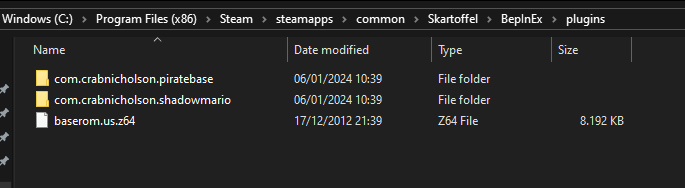
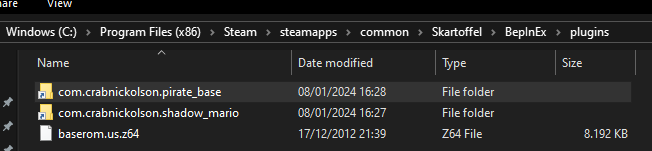
fix plugin guid

diff --git a/Plugin.cs b/Plugin.cs
@@ -18,7 +18,7 @@ public class Plugin : BasePlugin
     internal static ManualLogSource PluginLog { get; private set; }
     internal static MarioConfig PluginConfig { get; private set; }
 
-    private const string c_pluginGUID = "com.crabnicholson.shadowmario";
+    private const string c_pluginGUID = "com.crabnickolson.shadow_mario";
     private const string c_pluginName = "ShadowMario";
 
     public override void Load()

diff --git a/README.md b/README.md
@@ -1,6 +1,6 @@
 # Shadow Mario
 
-A plugin for Shadow Gambit that lets you play as Mario.
+A [BepInEx](https://github.com/BepInEx/BepInEx) plugin for [Shadow Gambit](https://store.steampowered.com/app/1545560/Shadow_Gambit_The_Cursed_Crew/) that lets you play as Mario.
 
 ## Installation
 
@@ -11,8 +11,8 @@ A plugin for Shadow Gambit that lets you play as Mario.
 ### What you need
 - [BepInEx 6](https://builds.bepinex.dev/projects/bepinex_be)
 	- Click on the newest artifact and then download "BepInEx Unity (IL2CPP) for Windows (x64) games"
-- [PirateBase Plugin](https://github.com/CrabNickolson/pirate_base_plugin/releases)
-- [ShadowMario Plugin](https://github.com/CrabNickolson/shadow_mario_plugin/releases)
+- [Pirate Base Plugin](https://github.com/CrabNickolson/pirate_base_plugin/releases/latest)
+- [Shadow Mario Plugin](https://github.com/CrabNickolson/shadow_mario_plugin/releases/latest)
 - Super Mario 64 (USA) ROM File
 	- You'll have to figure out where to get this yourself (SHA256: 17ce077343c6133f8c9f2d6d6d9a4ab62c8cd2aa57c40aea1f490b4c8bb21d91)
 - A controller. (Mario cannot be controlled with Keyboard/Mouse)
@@ -73,7 +73,7 @@ If you are upgrading from a previous version of Shadow Mario you only have to re
 		- Stars/Coins/Item Blocks are NOT obstacles, so you do not need to regenerate the terrain for them.
 
 ### Config
-There is a config file at `[game folder]\BepInEx\config\com.crabnicholson.shadowmario.cfg`. It contains options to change Mario's gameplay and also some options to tweak performance. Although be careful when you modify the latter, since those can cause the game to become inoperable.
+There is a config file at `[game folder]\BepInEx\config\com.crabnickolson.shadow_mario.cfg`. It contains options to change Mario's gameplay and also some options to tweak performance. Although be careful when you modify the latter, since those can cause the game to become inoperable.
 
 ### Scripting
 The following MiScript commands are available:
